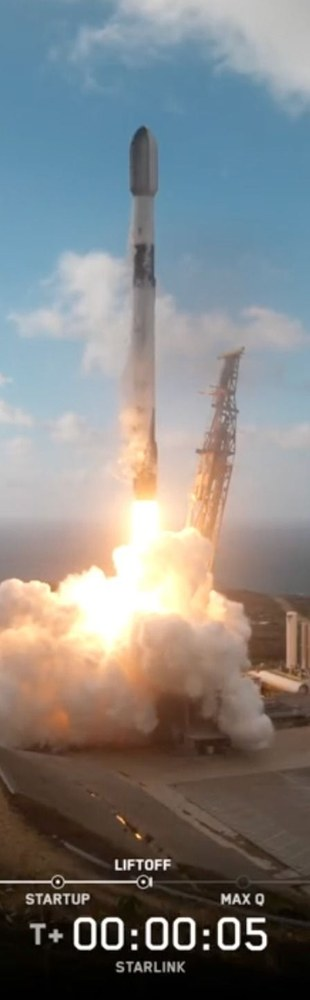
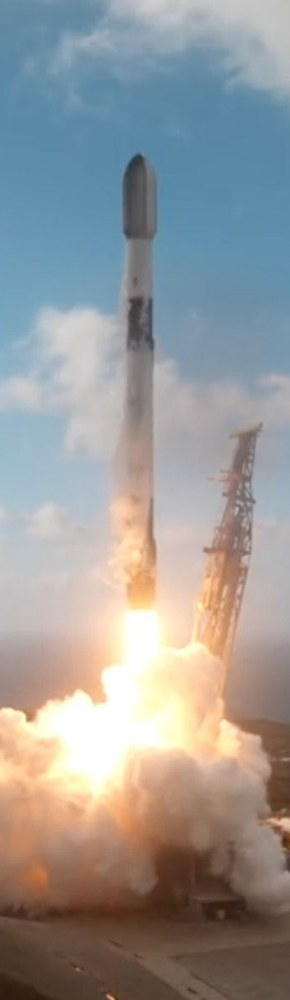
Enlarge Agamemnon in its box; trim the Cortesol rocket above the telemetry overlay

diff --git a/app/dither.css b/app/dither.css
@@ -190,7 +190,7 @@
 .bento-loop .loop-art img,.bento-loop .loop-art canvas{object-fit:contain}
 .bento-cover{position:absolute;inset:0;width:100%;height:100%;object-fit:contain;background:#050505}
 .bento-helmet{container-type:size}
-.bento-helmet .bento-loop{top:50%;left:50%;right:auto;bottom:auto;transform:translate(-50%,-50%);width:min(59cqw,calc(59cqh * 544 / 708))!important;height:auto!important;aspect-ratio:544/708!important}
+.bento-helmet .bento-loop{top:50%;left:50%;right:auto;bottom:auto;transform:translate(-50%,-50%);width:min(80cqw,calc(80cqh * 544 / 708))!important;height:auto!important;aspect-ratio:544/708!important}
 @media (max-width:48rem){
 .bento{grid-template-columns:minmax(0,1fr);grid-template-rows:none}
 .bento>*{grid-column:auto!important;grid-row:auto!important;min-height:18rem}
